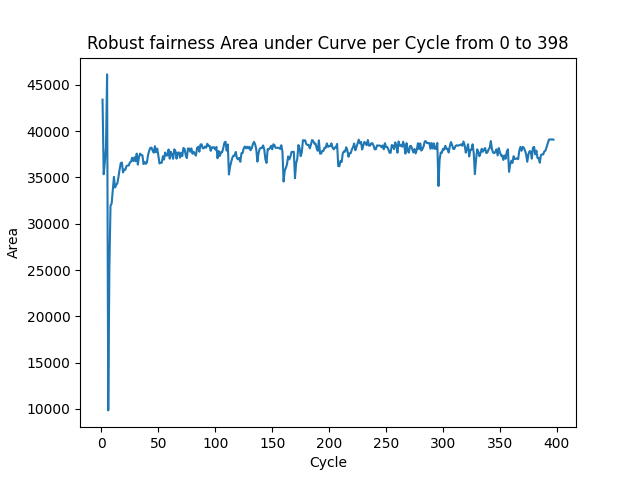
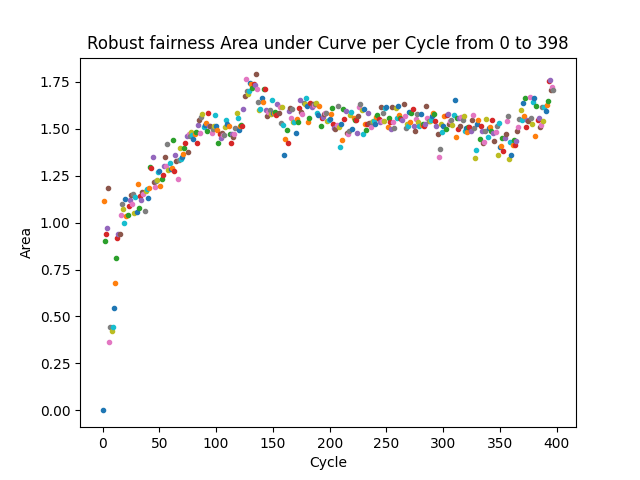
Fix robust fairness aoc

diff --git a/tezos_analysis.py b/tezos_analysis.py
@@ -47,6 +47,14 @@ def compute_gini_all_bakers_per_cycle(start, end):
     return gini_indexes_list
 
 
+def get_num_bakers_income_table_per_cycle_list(start, end):
+    num_bakers_list = []
+    for c in range(start, end):
+        num_bakers_c = cur.execute('SELECT COUNT(DISTINCT(address)) FROM income_table where cycle=%s' %c).fetchall()[0][0]
+        num_bakers_list.append(num_bakers_c)
+    return num_bakers_list
+
+
 def compute_num_working_bakers_per_cycle_list():
     num_bakers_list = []
     num_working_bakers = cur.execute('SELECT working_bakers FROM cycles GROUP BY cycle').fetchall()
@@ -557,7 +565,7 @@ def plot_expectational_fairness_all_bakers_all_cycles(expectational_fairness_lis
         x_data = c
         for y_data in y_datas[c]:  # plot all exp fairness values in that cycle of all bakers
             plt.plot(x_data, y_data, '.')
-    # TODO: for better visibility maybe filer out all that are 0 at first sight
+    # TODO: for better visibility maybe filter out all that are 0 at first sight
     plt.xlabel('Cycle')
     plt.ylabel('Absolute reward/Expected reward')
     plt.title('Expectational Fairness for all cycles and all bakers (New Version)')
@@ -593,35 +601,7 @@ def plot_expectational_fairness_all_bakers_all_cycles_lowest_x(expectational_fai
    plt.close()
 
 
-def plot_expectational_fairness_all_bakers_cycles(start, end):
-    """Plot expectational fairness  for all bakers and cycles, here version with 8 bakers"""
-    x_data = list((range(start, end)))
-    # TODO: write this nicer/shorter
-    bakers = get_all_active_bakers()
-    y_data = compute_fairness_percentage(baker=bakers[0])
-    y2_data = compute_fairness_percentage(baker=bakers[1])
-    y3_data = compute_fairness_percentage(baker=bakers[2])
-    y4_data = compute_fairness_percentage(baker=bakers[3])
-    y5_data = compute_fairness_percentage(baker=bakers[4])
-    y6_data = compute_fairness_percentage(baker=bakers[5])
-    y7_data = compute_fairness_percentage(baker=bakers[6])
-    y8_data = compute_fairness_percentage(baker=bakers[7])
-    plt.plot(x_data, y_data, '.', color='black', label='baker1')
-    plt.plot(x_data, y2_data, '.', color='blue', label='baker2')
-    plt.plot(x_data, y3_data, '.', color='green', label='baker3')
-    plt.plot(x_data, y4_data, '.', color='orange', label='baker4')
-    plt.plot(x_data, y5_data, '.', color='red', label='baker5')
-    plt.plot(x_data, y6_data, '.', color='grey', label='baker6')
-    plt.plot(x_data, y7_data, '.', color='purple', label='baker7')
-    plt.plot(x_data, y8_data, '.', color='yellow', label='baker8')
-    plt.xlabel('Cycle')
-    plt.legend()
-    plt.ylabel('Absolute reward/Expected reward')
-    plt.title('Expectational Fairness for all cycles and all bakers')
-    plt.savefig('images/expectational_fairness/expectational_fairness_allbakers_allcycles.png')
-    plt.close()
-
-
+# TODO: redo this
 def plot_expectational_fairness(start, end, baker):
     """the expectation of the fraction of the reward that baker A receives of the total reward should be equal to his
     initial resource a --> on x axis we have the number of blocks/cycles and on the y axis the fraction of the total
@@ -639,6 +619,7 @@ def plot_expectational_fairness(start, end, baker):
     plt.close()
 
 
+# TODO: redo this
 def plot_expectational_fairness_difference(start, end, baker):
     x_data = list((range(start, end + 1)))
     actual, expected = compute_fractions(start, end, baker)
@@ -761,6 +742,7 @@ def get_baker_rewards_per_cycle_sorted(cycle):
 def compute_nakamoto_index(start, end):
     num_cycles = end - start
     num_bakers = [0] * num_cycles  # array with number of bakers per cycle needed for > 50%
+    # TODO: get total_rewards_per_cycle not defined
     total_rewards_per_cycle = get_total_rewards_per_cycle(start, end)
     num_bakers_per_cycle = get_num_baker_per_cycle(start, end)
 
@@ -784,20 +766,12 @@ def compute_nakamoto_index(start, end):
     return num_bakers_fraction
 
 
-def compute_aoc(start, end):
+def compute_aoc(cycle):
     """computes the area under the curve for robust fairness for all the cycles from start to end"""
-    areas = []  # array of length cycles, contains for each cycle the area under the curve of robust fairness
-    num_cycles = end - start
-    for cycle in range(start, end+1):
-        Deltas, EPS = compute_robust_fairness(cycle)  # on x axis the Deltas, on y axis EPS values
-        print('len deltas', len(Deltas))
-        print('len eps', len(EPS))
-        area_cycle = trapz(EPS, dx=num_cycles-1)  # compute area using composite trapezoidal rule, dx indicates spacing
-        # area_cycle = trapz(EPS, x=Deltas, axis= -1)
-        # dx: we have 100 values from 0 to 1 -> take 100 steps? TODO: is this accurate when our steps are not equally?
-        areas.append(area_cycle)
-    print(areas)
-    print(len(areas))
+    Deltas, EPS = compute_robust_fairness(cycle)
+    EPS = np.asarray(EPS)
+    areas = np.sum(0.01 * EPS)
+    # other solution trapezoidal rule=> areas = trapz(EPS, dx=0.01)
     return areas
 
 
@@ -806,6 +780,7 @@ def plot_nakamoto_index(start, end):
     have more than 50% of the stake, this can fluctuate, but if it has a general tendency to go down, then it gets
     unfair as we have a few very big players """
     x_data = list((range(start, end)))
+    # TODO: fix this compute method -> get_tota_rewards_per_cycle not defined
     y_data = compute_nakamoto_index(start, end)
     plt.plot(x_data, y_data)
     plt.xlabel('Cycle')
@@ -815,14 +790,26 @@ def plot_nakamoto_index(start, end):
     plt.close()
 
 
+# TODO: check this -> Do we need sorting?
+def plot_nakamoto_index_num_bakers(start, end):
+    """Plots nakamoto index on y axis and num_bakers (in each cycle) on x axis"""
+    x_data = get_num_bakers_income_table_per_cycle_list(start, end) # get number of bakers in each cycle
+    y_data = compute_nakamoto_index(start, end)
+    # TODO: make dicts of the x and y data and sort the x_data ascending and then have the corresponding y_data
+    plt.plot(x_data, y_data)
+    plt.xlabel('Number of Bakers (Cycle)')
+    plt.ylabel('Percentage of bakers to reach > 50%')
+    plt.title('Nakamoto Index for each cycle from ' + str(start) + ' to ' + str(end))
+    plt.savefig('images/Nakamoto_index_num_bakers' + str(start) + '_' + str(end) + '.png')
+    plt.close()
+
+
 def plot_robust_fairness_aoc(start, end):
-    x_data = list((range(start + 1, end)))
-    y_data = compute_aoc(start, end)
-    print(len(x_data))
-    print('ydatalength', len(y_data))
+    for x in range(start, end):
+        y_data = compute_aoc(x)
+        plt.plot(x, y_data, '.')
     plt.xlabel('Cycle')
     plt.ylabel('Area')
-    plt.plot(x_data, y_data)
     plt.title('Robust fairness Area under Curve per Cycle from ' + str(start) + ' to ' + str(end))
     plt.savefig('images/robust_fairness/area_under_curve_' + str(start) + '_' + str(end) + '.png')
     plt.close()
@@ -924,12 +911,11 @@ if __name__ == '__main__':
         plot_robust_fairness(c)
 
     # Area under curve robust fairness
-    # plot_robust_fairness_aoc(0, 5)  # works for every cycle (for initial value we take the value in prev. cycle)
-    #plot_robust_fairness_aoc(0, 398)
+    # TODO: comment this out as it takes long
+    plot_robust_fairness_aoc(0, 5)  # works for every cycle (for initial value we take the value in prev. cycle)
+    plot_robust_fairness_aoc(0, 398)
 
     # TODO: 3) Compute robust fairness_highest_x
-
-    # TODO: 2) Compute Nakamoto index with num bakers in network on x axis
 
     # TODO: 4) Compute mean reward plot, i.e. cycles on x axis, percentage of total reward on y axis, plot a line
     #  with the mean reward over all bakers and then plot the relative difference to this for every baker
@@ -937,6 +923,11 @@ if __name__ == '__main__':
     #  Nakamoto index
     plot_nakamoto_index(0, 398)
     plot_nakamoto_index(0, 8)
+
+    # TODO: 2) Compute Nakamoto index with num bakers in network on x axis
+    # Nakamoto index with num bakers in network on x axis
+    # plot_nakamoto_index_num_bakers(0, 8)
+    # plot_nakamoto_index_num_bakers(0,398)
 
     # Close connection
     con.close()
